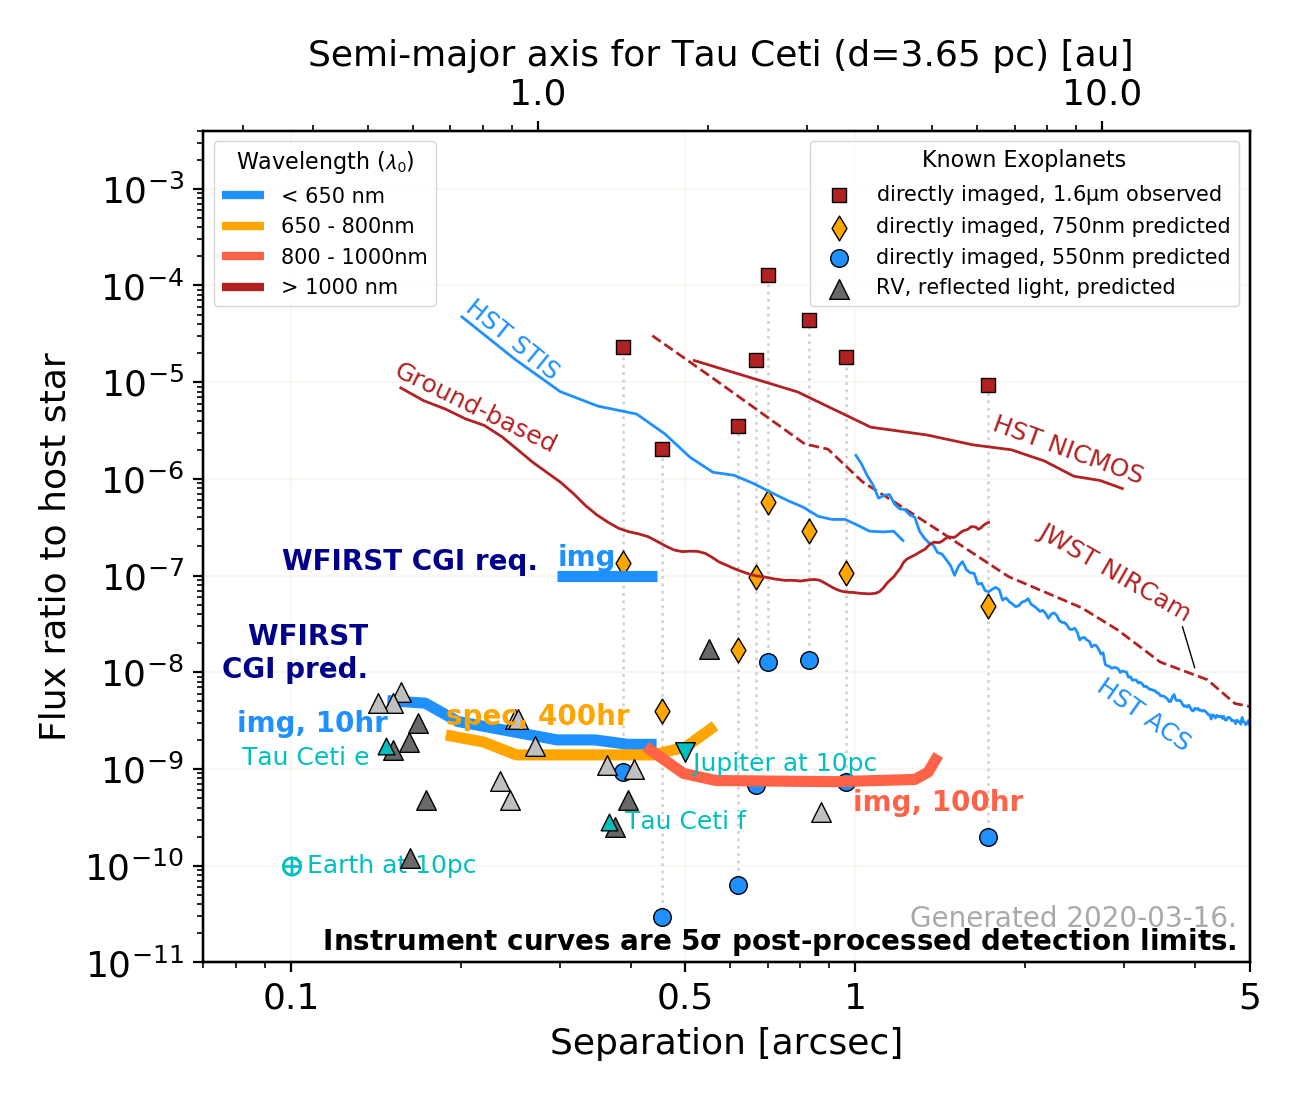
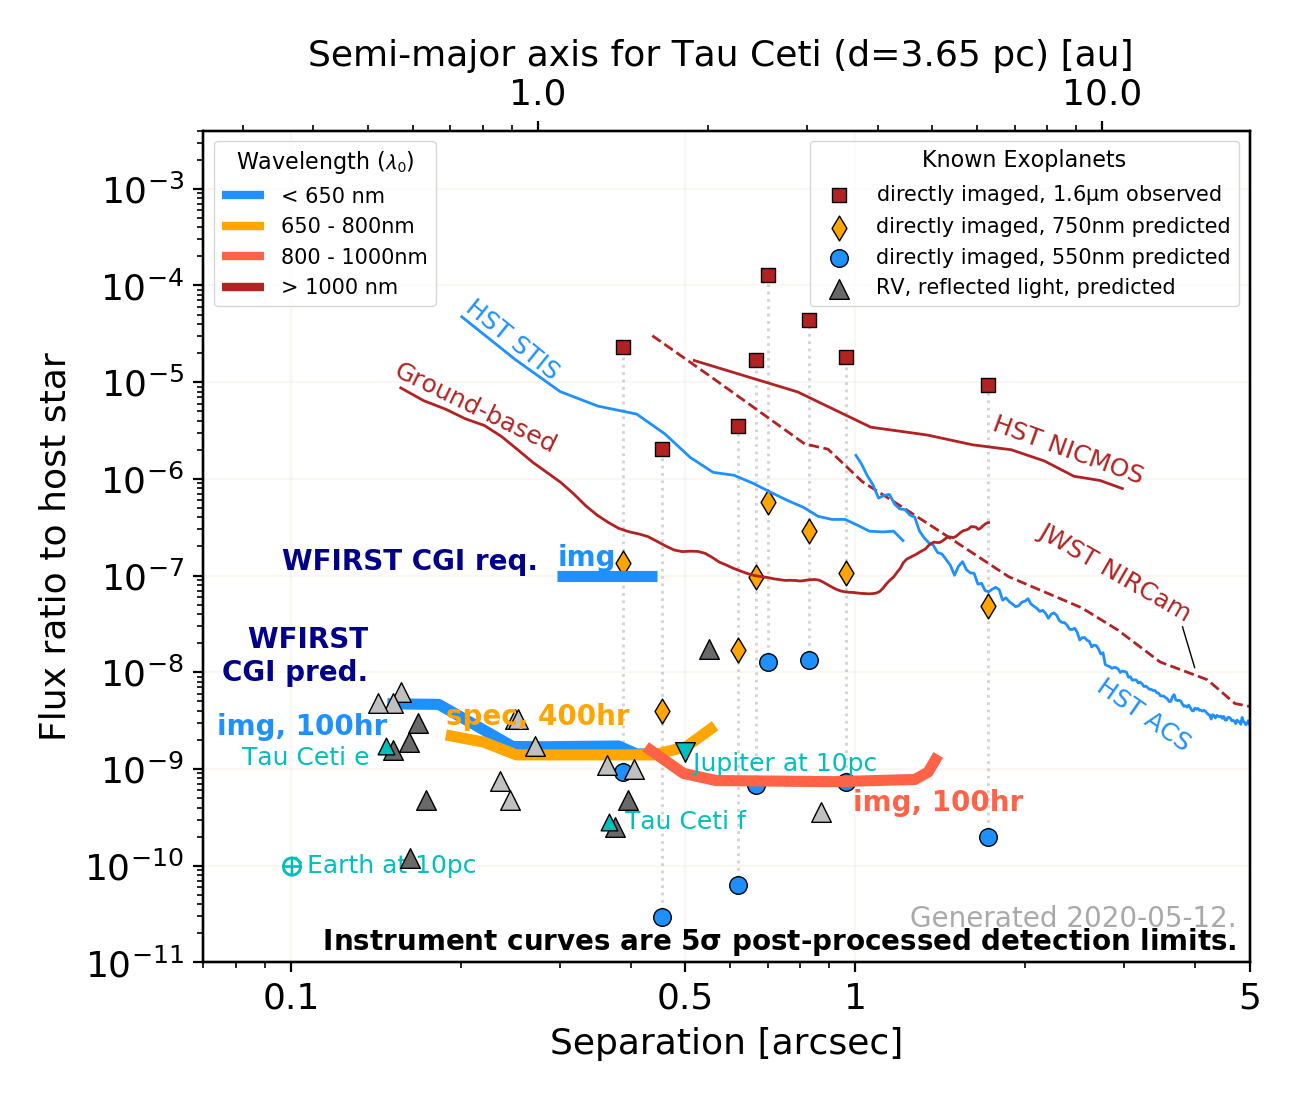
update HLC os9 to 100hr. clarify in docs that SPC wide FOV is still os6.

diff --git a/documentation/description.md b/documentation/description.md
@@ -75,16 +75,16 @@ Models are available at https://phoenix.ens-lyon.fr/Grids/
 
 
 ### Performance predictions :
-* **Description**: Model-predicted 5$\sigma$ final detection limits for a V=5 star in the three official observing modes. Model uncertainty factors (MUFs) for observatory and CGI set to unity. No performance margins. 
+* **Description**: Model-predicted 5$\sigma$ final detection limits for a V=5 star in the three official observing modes. Model uncertainty factors (MUFs) for observatory and CGI set to unity. No performance margins. Narrow FOV imaging and spectroscopy predictions incorporate results from OS9 (spring 2020). Wide FOV imaging uses OS6 results (spring 2019), because OS9 results are not yet available for this mode.
 * **Bandpass:**
-    * narrow FOV imaging : 575nm / 10% BW, Hybrid Lyot coronagraph
+    * narrow FOV imaging : 575nm / 10% BW, Hybrid Lyot coronagraph.
     * spectroscopy : R=50 spectroscopy, 730nm / 15% BW, Shaped Pupil bowtie coronagraph.
     * wide FOV imaging : 825nm / 10% BW, Shaped Pupil wide field of view coronagraph.
 * **Integration time:**
     * imaging : 100hr
     * spectroscopy : 400hr.
-* **Post-processing:** Reference PSF subtraction, plus an assumed additional factor of 2 improvement on the residual speckle component from the application of more sophisticated post-processing techniques.
-* **Reference:** B. Kern & B. Nemati, personal communication, March 16, 2020. Based on OS9 simulations.
+* **Post-processing:** Reference PSF subtraction, with an assumed additional factor of 2 improvement over the basic-RDI residual speckle component, from the application of more sophisticated post-processing techniques.
+* **Reference:** B. Kern & B. Nemati spreadsheet, personal communication. 
     
     
 ### Old CGI Tech Demo requirements. 
